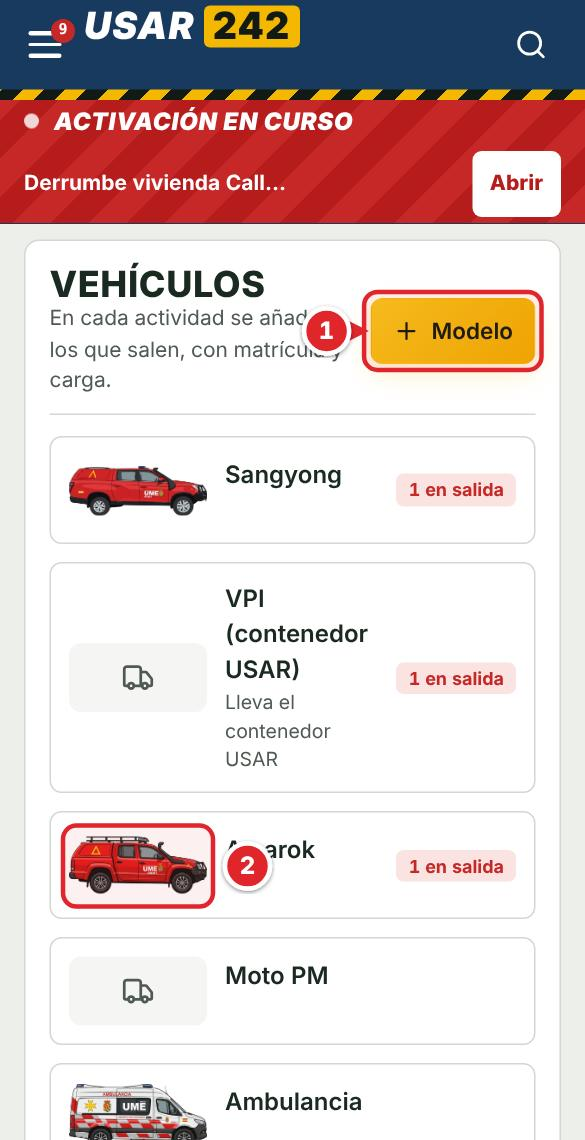
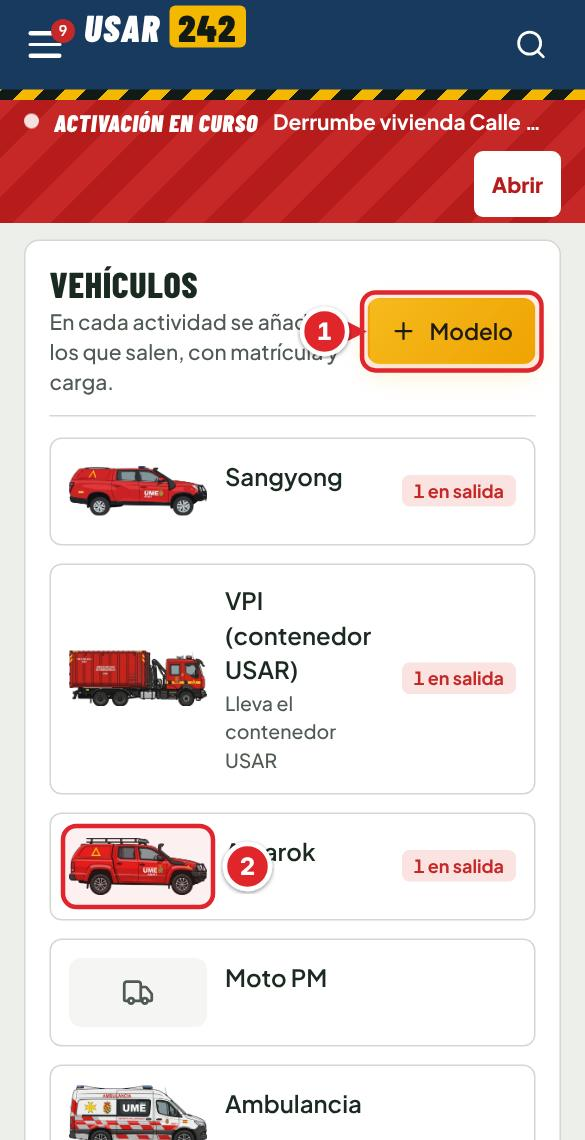
Dibujo del VPI (camión con el contenedor USAR)
Recortado sobre fondo transparente (640 px, como los demás vehículos),
guardado sin conexión y captura del manual de Vehículos actualizada.

Claude-Session: https://claude.ai/code/session_0118nn5FfTdWCTcZrqft7Q7P

diff --git a/sw.js b/sw.js
@@ -1,7 +1,7 @@
 // Permite usar la app sin conexión.
 // Con conexión siempre se descarga la última versión; la copia guardada solo se usa sin red.
-const CACHE = 'usar242-v36';
-const FILES = ['./', 'index.html', 'styles.css', 'qr.js', 'manifest.webmanifest', 'icon.svg', 'icon-192.png', 'icon-512.png', 'img/contenedor-lateral.webp', 'img/veh/v-ab.webp', 'img/veh/v-ab-lcif.webp', 'img/veh/v-sangyong.webp', 'img/veh/v-amarok.webp', 'img/veh/v-amb.webp', 'img/veh/v-cam-verde.webp', 'img/veh/v-cupra.webp', 'img/veh/v-guagua-g.webp', 'img/veh/v-guagua-p.webp',
+const CACHE = 'usar242-v37';
+const FILES = ['./', 'index.html', 'styles.css', 'qr.js', 'manifest.webmanifest', 'icon.svg', 'icon-192.png', 'icon-512.png', 'img/contenedor-lateral.webp', 'img/veh/v-ab.webp', 'img/veh/v-ab-lcif.webp', 'img/veh/v-sangyong.webp', 'img/veh/v-amarok.webp', 'img/veh/v-amb.webp', 'img/veh/v-cam-verde.webp', 'img/veh/v-cupra.webp', 'img/veh/v-guagua-g.webp', 'img/veh/v-guagua-p.webp', 'img/veh/v-vpi.webp',
   'js/config.js', 'js/icons.js', 'js/utils.js', 'js/geo.js', 'js/pdf.js', 'js/data.js', 'js/metodo.js', 'js/sync.js', 'js/ui.js', 'js/sesion.js', 'js/areas.js', 'js/catalogos.js', 'js/marcaje.js', 'js/views/contenedor.js', 'js/views/cajas.js', 'js/views/revista.js', 'js/views/epi.js', 'js/views/operaciones.js', 'js/views/mision.js', 'js/views/seguridad.js', 'js/views/confinados.js', 'js/views/worksites.js', 'js/views/victimas.js', 'js/views/informes.js', 'js/views/guia.js', 'js/views/registros.js', 'js/views/exportar.js', 'js/views/despliegue.js', 'js/views/patrimonio.js', 'js/views/persona.js', 'js/views/campo.js', 'js/views/calendario.js', 'js/views/mapa.js', 'js/views/manual.js', 'vendor/jsQR.js', 'js/views/fichaje.js', 'js/views/plantillas.js', 'js/views/puestos.js', 'js/views/stock.js', 'js/views/entregas.js', 'js/views/ajustes.js', 'js/main.js'];
 
 self.addEventListener('install', e => {

diff --git a/js/config.js b/js/config.js
@@ -13,7 +13,7 @@ const SIDE_L = [{ id: 1, c: '1', r: '1 / 3' }, { id: 2, c: '1', r: '3' }, { id: 
   { id: 7, c: '3', r: '2' }, { id: 5, c: '2', r: '3' }, { id: 8, c: '3', r: '3' }, { id: 9, c: '4', r: '1 / 3' }, { id: 10, c: '4', r: '3' }];
 const HUECOS = [...SIDE_L.map(h => ({ ...h, label: h.label || 'B' + h.id })), ...SIDE_L.map(h => ({ ...h, id: h.id + 10, label: h.label ? 'B13 y B16' : 'B' + (h.id + 10) }))];
 // Dibujos de los vehículos de la unidad (img/veh/<id>.webp); los demás usan su foto si se pone, o un icono
-const VEH_ART = ['V-SANGYONG', 'V-AB-LCIF', 'V-GUAGUA-G', 'V-GUAGUA-P', 'V-AMB', 'V-AMAROK', 'V-CAM-VERDE', 'V-AB', 'V-CUPRA'];
+const VEH_ART = ['V-SANGYONG', 'V-AB-LCIF', 'V-GUAGUA-G', 'V-GUAGUA-P', 'V-VPI', 'V-AMB', 'V-AMAROK', 'V-CAM-VERDE', 'V-AB', 'V-CUPRA'];
 // Posición de cada hueco sobre el dibujo del lateral (img/contenedor-lateral.webp): izquierda, arriba, ancho y alto en %
 const HUECO_RECT = { 1: [5.73, 4.48, 19.56, 49.25], 2: [5.73, 56.72, 19.56, 35.82], 3: [27.75, 4.48, 45.11, 26.12], 4: [27.75, 37.01, 21.15, 26.42],
   7: [51.37, 37.01, 21.5, 26.42], 5: [27.75, 69.4, 21.15, 23.13], 8: [51.37, 69.4, 21.5, 23.13], 9: [75.33, 4.48, 18.94, 49.25], 10: [75.33, 56.72, 18.94, 35.82] };
